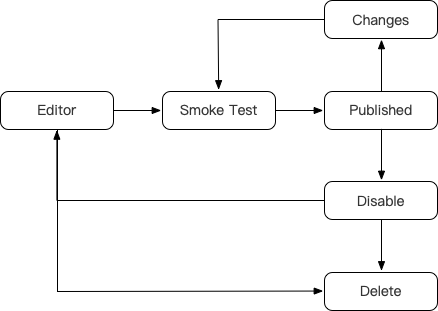
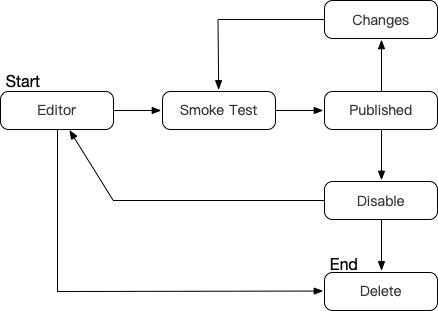
1.完成 Dataway 相关文档的编写。

diff --git a/hasor-dataway/src/console/src/components/EditerActions.vue b/hasor-dataway/src/console/src/components/EditerActions.vue
@@ -37,25 +37,31 @@
         <div style="padding-left: 10px;display: inline;"/>
         <el-button-group>
             <!-- 历史 -->
-            <el-button size="mini" round @click.native="handleHistoryAction" :disabled="disabledBtn('historyAction')" v-popover:releaseHistoryPopover>
-                <svg class="icon" aria-hidden="true">
-                    <use xlink:href="#iconhistory"/>
-                </svg>
-            </el-button>
+            <el-tooltip class="item" effect="dark" content="Release History List" placement="bottom-end">
+                <el-button size="mini" round @click.native="handleHistoryAction" :disabled="disabledBtn('historyAction')" v-popover:releaseHistoryPopover>
+                    <svg class="icon" aria-hidden="true">
+                        <use xlink:href="#iconhistory"/>
+                    </svg>
+                </el-button>
+            </el-tooltip>
             <!-- 下线 -->
-            <el-button size="mini" round @click.native="handleDisableAction" :disabled="disabledBtn('disableAction')"
-                       v-if="apiInfo.apiStatus===1 || apiInfo.apiStatus===2">
-                <svg class="icon" aria-hidden="true">
-                    <use xlink:href="#icondisable"/>
-                </svg>
-            </el-button>
+            <el-tooltip class="item" effect="dark" content="Disable the published Api." placement="bottom-end">
+                <el-button size="mini" round @click.native="handleDisableAction" :disabled="disabledBtn('disableAction')"
+                           v-if="apiInfo.apiStatus===1 || apiInfo.apiStatus===2">
+                    <svg class="icon" aria-hidden="true">
+                        <use xlink:href="#icondisable"/>
+                    </svg>
+                </el-button>
+            </el-tooltip>
             <!-- 删除 -->
-            <el-button size="mini" round @click.native="handleDeleteAction" :disabled="disabledBtn('deleteAction')"
-                       v-if="apiInfo.apiStatus===0 || apiInfo.apiStatus===3">
-                <svg class="icon" aria-hidden="true">
-                    <use xlink:href="#icondelete"/>
-                </svg>
-            </el-button>
+            <el-tooltip class="item" effect="dark" content="Permanently delete the Api but keep release history." placement="bottom-end">
+                <el-button size="mini" round @click.native="handleDeleteAction" :disabled="disabledBtn('deleteAction')"
+                           v-if="apiInfo.apiStatus===0 || apiInfo.apiStatus===3">
+                    <svg class="icon" aria-hidden="true">
+                        <use xlink:href="#icondelete"/>
+                    </svg>
+                </el-button>
+            </el-tooltip>
         </el-button-group>
         <div style="display: block;position: absolute;z-index: 1000;">
             <el-popover ref="releaseHistoryPopover" placement="bottom" title="History Version" width="250">

diff --git a/hasor-dataway/src/console/src/views/InterfaceEdit.vue b/hasor-dataway/src/console/src/views/InterfaceEdit.vue
@@ -8,6 +8,7 @@
                             <el-option label="POST" value="POST"/>
                             <el-option label="PUT" value="PUT"/>
                             <el-option label="GET" value="GET"/>
+                            <el-option label="DELETE" value="DELETE"/>
                         </el-select>
                         <el-button slot="append" icon="el-icon-info" @click.native="handleShowComment"/>
                     </el-input>

diff --git a/hasor-dataway/src/main/java/net/hasor/dataway/service/CheckService.java b/hasor-dataway/src/main/java/net/hasor/dataway/service/CheckService.java
@@ -49,8 +49,8 @@ public class CheckService {
         if (!apiPath.startsWith(this.apiUrl)) {
             throw new IllegalArgumentException("The API prefix must be " + this.apiUrl);
         }
-        if (!apiPath.matches("[\\$\\(\\)\\*\\+\\-\\.!#&',/:;=?@_~0-9a-zA-Z]+")) {
-            throw new IllegalArgumentException("Allowed characters： !  #  $  &  '  (  )  *  +  ,  -  .  /  :  ;  =  ?  @  _  ~  0-9  a-z  A-Z");
+        if (!apiPath.matches("[\\$\\(\\)\\*\\+\\-\\.!',/:;=@_~0-9a-zA-Z]+")) {
+            throw new IllegalArgumentException("Allowed characters： !  $  '  (  )  *  +  ,  -  .  /  :  ;  =  @  _  ~  0-9  a-z  A-Z");
         }
         //
         QueryResult queryResult = new TestPathQuery(this.dataQL).execute(new HashMap<String, String>() {{

diff --git a/hasor-dataway/src/main/java/net/hasor/dataway/service/ApiCallService.java b/hasor-dataway/src/main/java/net/hasor/dataway/service/ApiCallService.java
@@ -33,6 +33,7 @@ import javax.inject.Inject;
 import javax.inject.Named;
 import javax.inject.Singleton;
 import javax.servlet.http.HttpServletRequest;
+import java.net.URLDecoder;
 import java.util.HashMap;
 import java.util.Map;
 import java.util.Set;
@@ -66,7 +67,7 @@ public class ApiCallService {
         try {
             QueryResult queryResult = new ReleaseDetailQuery(this.dataQL).execute(new HashMap<String, String>() {{
                 put("apiMethod", httpMethod);
-                put("apiPath", requestURI);
+                put("apiPath", URLDecoder.decode(requestURI, "UTF-8"));
             }});
             ObjectModel dataModel = (ObjectModel) queryResult.getData();
             script = dataModel.getValue("script").asString();

diff --git a/document/src/dataway/api_manager.rst b/document/src/dataway/api_manager.rst
@@ -1,0 +1,72 @@
+接口状态流转
+------------------------------------
+.. image:: ../_static/dataway-work-flow.png
+
+- **Editor**：编辑状态，接口不可访问。
+- **SmokeTest**：冒烟测试是一个动作。只有冒烟测试通过之后才能进行发布操作，冒烟测试状态不会被持久保存。
+- **Published**：接口已发布可以正常访问，并且无增量变化。
+- **Changes**：接口已经发布可以正常访问，但是有后续变更尚未发布。此时访问接口是上一次发布的查询逻辑。
+- **Disable**：无效接口，说明接口曾经发布成功过。此时将接口进行下线处理。在编辑器页面可以修改重新发布。
+- **Delete**：接口已删除，被删除的接口会被真正的物理删除。interface_release 表中会保留历史数据。
+
+新增
+------------------------------------
+点击页面顶部的 New 就可以进入新增接口页面
+
+.. image:: ../_static/editer-new.png
+
+在新增页面中，最主要的是要设置API的请求地址和方法。在保存 API 的时候 dataway 会对 Api 地址进行校验。
+合法的API地址中只能包含下列字符： ``! $ ' ( ) * + , - . / : ; = @ _ ~ [0-9] [a-z] [A-Z]``
+
+编辑器中开放了 ``POST、PUT、GET、DELETE`` 四个可选的 Http Method。
+
+在保存时如果遇到错误会有类似下面这样的提示（下列是，API地址冲突的错误提示）
+
+.. image:: ../_static/editer-path-error.png
+
+.. CAUTION::
+    请注意 API 创建就不允许修改请求地址和方法，可以删除重建API来达到更名目的。
+
+.. image:: ../_static/editer-helloword.png
+
+新增接口时会展示一段 HelloWord 用例，这个用例中包含了请求一个接口传入一个 ``message`` 参数，然后利用 DataQL 查询获取这个参数并将其返回。
+开发者可以在新建接口时直接点击工具条中的 ``Execute`` 图标执行得到运行结果。
+
+执行
+------------------------------------
+在任意的编辑器界面中（新增模式 or 编辑模式），都可以直接在编辑区编写 DataQL 查询并通过右上角的 ``Execute`` 按钮执行。
+
+.. image:: ../_static/editer-execute.png
+
+发布
+------------------------------------
+当接口开发配置完成，需要将其发布以供使用。一个接口的发布上线要经历三个过程，具体如下：
+
+.. image:: ../_static/editer-publish.png
+
+**Execute**，调试当前编辑器中的 DataQL 查询。
+
+**Smork Test**，冒烟测试。和 Execute 不同，Smork 同样是执行 DataQL 查询并要求查询正常执行完毕。
+但是区别 Execute 的是 Smork 不会使用编辑器中的 DataQL 查询语句，而是到数据库中获取对应的查询语句。
+因为接口的发布也是将数据中的 DataQL 查询语句进行发布。
+
+**Publish**，当冒烟测试通过之后就可以点击发布按钮把接口发布上线了。每次发布 Dataway 都会在 interface_release 表中新增一条记录。
+
+删除/下线
+------------------------------------
+.. image:: ../_static/editer-btn-disable.png
+
+已经发布上线的接口只能执行接口下线操作。
+
+.. image:: ../_static/editer-btn-delete.png
+
+已经下线的接口或者正在编辑中的接口可以执行删除操作，删除操作会物理删除 interface_info 表中对应的记录。
+但是删除操作并不会删除曾经的发布历史，这就留给我们了一条可以找回被删除的接口曾经发布过的历史记录。只不过这一步只能进入数据库中自行搜索。
+
+发布历史
+------------------------------------
+每个 Dataway 上的接口在发布时都会 在 interface_release 表中生成一条记录。发布历史看的就是这里的记录。
+
+.. image:: ../_static/editer-btn-history.png
+
+在历史记录列表的右侧 icon 按可以恢复历史记录的内容到编辑器中。

diff --git a/document/src/dataway/ui_list.rst b/document/src/dataway/ui_list.rst
@@ -1,0 +1,52 @@
+--------------------
+列表页
+--------------------
+.. image:: ../_static/dataway-ui-list-area.png
+
+**List**：接口列表页，页面上分为三个区块分别为：
+
+  - **A**：API列表区
+  - **B**：调用接口参数配置区
+  - **C**：响应结果区
+
+API列表
+------------------------------------
+列表页的列表区块是用来展示在 Dataway 中管理的所有接口，按照 API 创建时间升序排序。
+
+.. image:: ../_static/list-apilist-block.png
+
+在这个区块中使用者可以做 五类事情。
+
+  - **A**：选择其中一个 Api 之后在列表页的请求区块中调用这个接口。
+  - **B**：搜索接口，搜索过滤条件是包含接口名的一部分或者描述中的一部分内容。
+  - **C**：刷新接口列表的内容，从数据库中重新读取最新的列表.
+  - **D**：点击其中一个接口的编辑图标进入这个接口的编辑页面。
+  - **E**：这个区域是用来显示接口的信息，最左侧的 Tag 是显示接口的状态，最右侧会显示接口的备注。乳沟一整行显示不下会有 hover 提示。
+
+调用接口
+------------------------------------
+接口调用有2个选项卡，如下分别是配置请求的 Body 和 Header 信息。整个区块内含有 5 个功能点。
+
+.. image:: ../_static/list-request.png
+
+**Parameters**
+
+  - 执行：真正的发起调用并获取返回值。被调用的接口必须是已发布的，被执行的逻辑也是最后一次 Publish 的逻辑。
+  - 格式化：对 requestBody 的 Json 内容进行格式化。
+
+**Header**
+
+  - 新增：临时性的新增一个 Header，要想永久性操作需要到编辑页中新增。
+  - 删除：临时性的删除 Header，对于Header参数永久删除需要到编辑页面中删除。
+  - 选择框：可以多选或者全选，含义是当发起执行的时候，哪些 Header 会被发往服务器。
+
+响应结果区
+------------------------------------
+.. image:: ../_static/list-response.png
+
+结果区是用来展示接口请求的结果，在这个区块中含有两个功能。
+
+**JsonResult**
+
+  - 拷贝：把结果区的内容拷贝到剪切板。
+  - 格式化：对 json 内容进行格式化。

diff --git a/document/src/dataway/ui_editer.rst b/document/src/dataway/ui_editer.rst
@@ -1,0 +1,31 @@
+--------------------
+新建/编辑页
+--------------------
+.. image:: ../_static/dataway-ui-edit-area.png
+
+新建/编辑页中操作区主要被分为四个区块，分别为：
+
+  - **A**：编辑区，用于书写编辑 DataQL 查询。
+  - **B**：测试接口参数配置区（使用方式同列表页，不同的是接口执行按钮，被移动到了功能区）
+  - **C**：测试结果响应区（使用方式同列表页）
+  - **D**：功能条
+
+编辑区
+------------------------------------
+
+.. image:: ../_static/editer-eidt.png
+
+编辑器采用的是微软开源编辑器 MonacoEditor，编辑器自身提供了很多工具。例如：查找替换等能力。
+
+除此之外编辑器最重要的是提供一个可以代码着色的能力，目前开源版本中编辑器的着色方案选用的是 javascript 方式。
+随着后续工具完善会逐步丰富 DataQL 自己的编辑器。
+
+功能条
+------------------------------------
+.. image:: ../_static/editer-toolbar.png
+
+其中功能条部分由下列三个部分组成，具体功能条中的操作将会下面功能介绍环节逐步涉略。
+
+  - **A**：设置/展示 数据接口的 Http 请求方法和接口地址，以及接口备注信息。
+  - **B**：编写的查询内容类型，目前可选：DataQL、SQL 两种语言
+  - **C**：按钮区

diff --git a/document/src/dataway/for_boot.rst b/document/src/dataway/for_boot.rst
@@ -113,10 +113,20 @@ Dataway 是 Hasor 生态中的一员，使用 Dataway 第一步需要通过 `has
     }
 
 
-使用UI配置接口
+启动工程
 ------------------------------------
-启动工程，访问 `http://<yourIP>:<yourProt>/interface-ui/` 就可以看到配置页面了
+在启动日志中看到下列信息输出就表示 Dataway 已经可以正常访问了。
 
-.. image:: ../_static/CC2_C633_6D5C_MK4L.png
+.. code-block:: java
+    :linenos:
 
-.. image:: ../_static/CC2_D633_6D5C_MK4L.png
+    2020-04-01 09:13:18.502 [main] INFO  n.h.core.context.TemplateAppContext - loadModule class net.hasor.dataway.config.DatawayModule
+    2020-04-01 09:13:18.502 [main] INFO  n.hasor.dataway.config.DatawayModule - dataway api workAt /api/
+    2020-04-01 09:13:18.502 [main] INFO  n.h.c.e.AbstractEnvironment - var -> HASOR_DATAQL_DATAWAY_API_URL = /api/.
+    2020-04-01 09:13:18.515 [main] INFO  n.hasor.dataway.config.DatawayModule - dataway admin workAt /interface-ui/
+
+
+- ``dataway api workAt /api/`` 表示 API 的工作路径。
+- ``dataway admin workAt /interface-ui/`` 表示 管理配置界面的地址。
+
+此时访问：`http://<yourIP>:<yourProt>/interface-ui/` 就可以看到配置页面了。

diff --git a/document/src/dataway/about.rst b/document/src/dataway/about.rst
@@ -49,4 +49,3 @@ ORM误区
   - ORM 最大的特点是具有 Mapping 过程，然后通过框架进行 CURD 操作。例如：Mybatis、Hibernate，其中有一些甚至做到了更高级的界面化例如： apijson，但其本质依然是 ORM。
   - DataQL 有很大不同，虽然 DataQL 提供了非常出色的基于 SQL 数据存取能力。但是无论从任何角度去看它都没有 ORM 中最关键的 Mapping 过程。能够看到最接近的只有 DataQL 对数据的结果转换能力。
   - 造成 ORM 错觉的是由于 DataQL 充分利用 Udf 和 Fragment 奇妙的组合，提供了更便捷的数据库存储逻辑配置化。但从技术架构上来审视它并不是 ORM。
-

diff --git a/document/src/dataql/index.rst b/document/src/dataql/index.rst
@@ -57,17 +57,3 @@ Maven插件
     :maxdepth: 3
 
     demos/convert_adv
-
-QIL指令集
-------------------------------------
-.. toctree::
-    :maxdepth: 3
-
-    runtime/mnemonics
-    runtime/create_instset
-    runtime/store_instset
-    runtime/exit_instset
-    runtime/run_instset
-    runtime/control_instset
-    runtime/fun_instset
-    runtime/other_instset

diff --git a/document/src/dataway/index.rst b/document/src/dataway/index.rst
@@ -7,4 +7,19 @@ Dataway 接口配置服务
 
     about
     for_boot
-    ui
+
+Interface-UI
+------------------------------------
+.. toctree::
+    :maxdepth: 3
+
+    ui_list
+    ui_editer
+
+
+API 管理指南
+------------------------------------
+.. toctree::
+    :maxdepth: 3
+
+    api_manager
